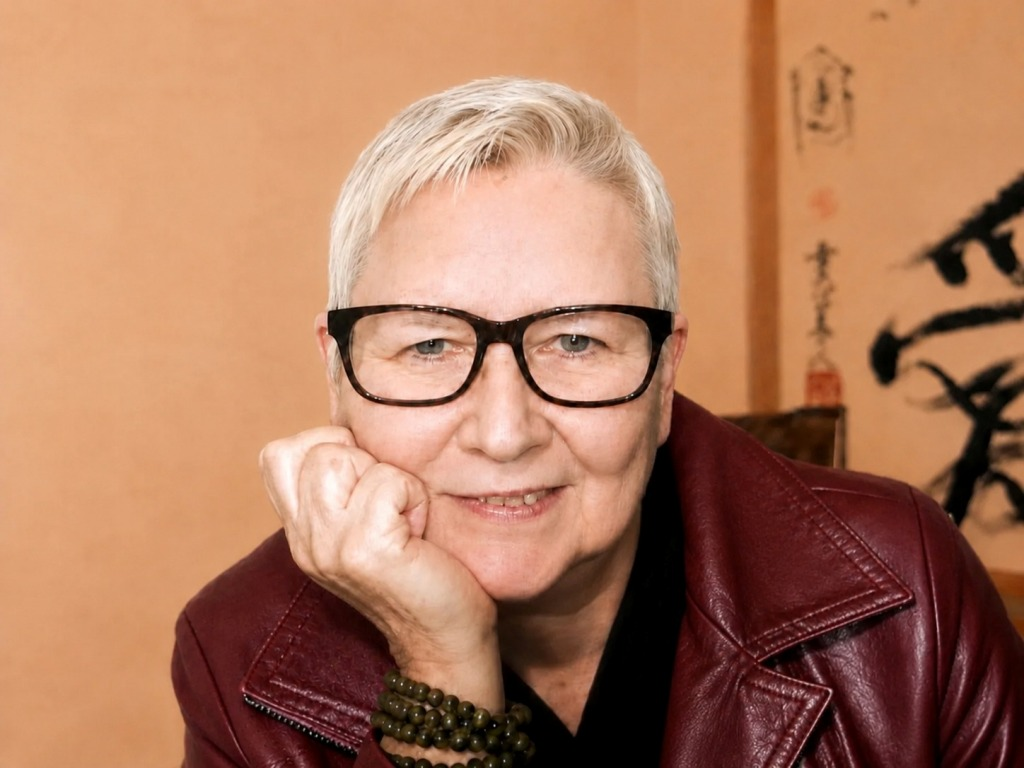
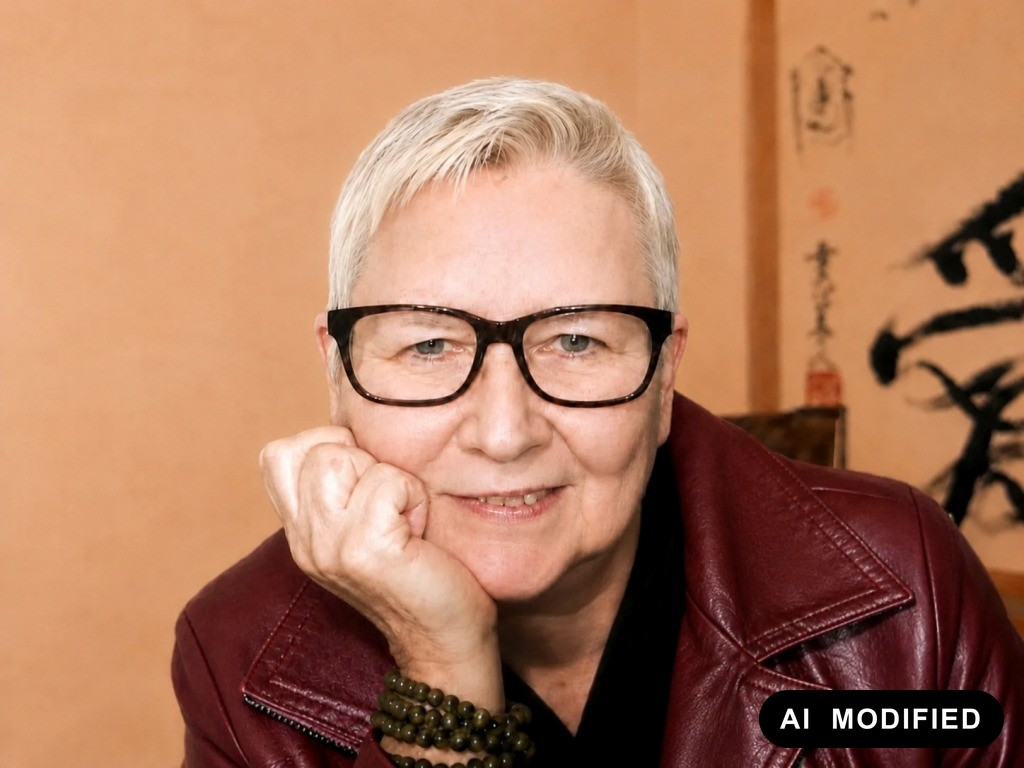
Add files via upload

Changed region(s): [[0.7188, 0.875, 1.0, 1.0]]

diff --git a/angebote.html b/angebote.html
@@ -125,7 +125,10 @@
 
   <section style="background:#fff; padding:100px 32px;">
     <div style="max-width:1160px; margin:0 auto; display:grid; grid-template-columns:repeat(auto-fit,minmax(340px,1fr)); gap:48px; align-items:center;">
-<img src="assets/Einzelcoaching%20mit%20kirsten%20ernst.jpg" alt="Einzelcoaching mit Kirsten Ernst – Coaching-Gespräch in vertrauensvoller Atmosphäre" loading="lazy" style="width:100%; height:380px;border-radius:20px; object-fit:cover; background:#EFE7DA;"/>
+<div style="position:relative;">
+        <img src="assets/Einzelcoaching%20mit%20kirsten%20ernst.jpg" alt="Einzelcoaching mit Kirsten Ernst – Coaching-Gespräch in vertrauensvoller Atmosphäre" loading="lazy" style="width:100%; height:380px; display:block; border-radius:20px; object-fit:cover; background:#EFE7DA;"/>
+        <div style="position:absolute; right:16px; bottom:16px; background:#000; color:#fff; font-family:'Montserrat',sans-serif; font-weight:700; font-size:11px; letter-spacing:0.04em; padding:6px 12px; border-radius:999px; white-space:nowrap;">AI GENERATED</div>
+      </div>
       <div>
         <div style="width:44px; height:44px; border-radius:12px; background:#E9F1F1; color:#DD7E2E; display:flex; align-items:center; justify-content:center; margin-bottom:20px;">
           <svg width="20" height="20" viewBox="0 0 24 24" fill="none" stroke="currentColor" stroke-width="2" stroke-linecap="round" stroke-linejoin="round"><path d="M20.8 4.6a5.5 5.5 0 0 0-7.8 0L12 5.6l-1-1a5.5 5.5 0 0 0-7.8 7.8l1 1L12 21.2l7.8-7.8 1-1a5.5 5.5 0 0 0 0-7.8z"/></svg>
@@ -166,7 +169,10 @@
   <section style="background:#fff; padding:100px 32px;">
     <div style="max-width:1160px; margin:0 auto; display:grid; grid-template-columns:repeat(auto-fit,minmax(340px,1fr)); gap:48px; align-items:center;">
 <figure style="margin:0;">
-        <img src="assets/Kirsten-Ernst-als%20speaker%20mit%20Ruediger-Dhalke.png" alt="Kirsten Ernst als Speakerin im Podiumsgespräch mit Rüdiger Dahlke" loading="lazy" style="width:100%; height:400px;border-radius:20px; object-fit:cover; background:#EFE7DA;"/>
+        <div style="position:relative;">
+          <img src="assets/Kirsten-Ernst-als%20speaker%20mit%20Ruediger-Dhalke.png" alt="Kirsten Ernst als Speakerin im Podiumsgespräch mit Rüdiger Dahlke" loading="lazy" style="width:100%; height:400px; display:block; border-radius:20px; object-fit:cover; background:#EFE7DA;"/>
+          <div style="position:absolute; right:16px; bottom:16px; background:#000; color:#fff; font-family:'Montserrat',sans-serif; font-weight:700; font-size:11px; letter-spacing:0.04em; padding:6px 12px; border-radius:999px; white-space:nowrap;">AI MODIFIED</div>
+        </div>
         <figcaption style="font-family:'Montserrat',sans-serif; font-size:13px; color:#8FA0AF; text-align:center; margin-top:12px;">Diskussion mit Rüdiger Dahlke und anderen</figcaption>
       </figure>
       <div>

diff --git a/kostenfreies-event.html b/kostenfreies-event.html
@@ -148,7 +148,10 @@
   </section>
 
   <section style="background:#fff; padding:100px 32px; text-align:center;">
-    <img src="assets/kirsten%20ernst%20coach%20fuer%20frauen%20Du%20moechtest%20tiefer%20gehen.png" alt="Kirsten Ernst – Coach für Frauen" loading="lazy" style="width:200px; height:200px; object-fit:cover; object-position:center 25%; border-radius:50%; display:block; margin:0 auto 30px; box-shadow:0 18px 40px rgba(36,52,74,0.16);"/>
+    <div style="position:relative; width:200px; margin:0 auto 30px;">
+      <img src="assets/kirsten%20ernst%20coach%20fuer%20frauen%20Du%20moechtest%20tiefer%20gehen.png" alt="Kirsten Ernst – Coach für Frauen" loading="lazy" style="width:200px; height:200px; object-fit:cover; object-position:center 25%; border-radius:50%; display:block; box-shadow:0 18px 40px rgba(36,52,74,0.16);"/>
+      <div style="position:absolute; left:50%; bottom:6px; transform:translateX(-50%); background:#000; color:#fff; font-family:'Montserrat',sans-serif; font-weight:700; font-size:9px; letter-spacing:0.03em; padding:4px 9px; border-radius:999px; white-space:nowrap;">AI MODIFIED</div>
+    </div>
     <h2 style="font-family:'Cormorant Garamond',serif; font-weight:800; font-size:28px; color:#6B2F7A; margin:0 0 14px;">Du möchtest tiefer gehen?</h2>
     <p style="font-size:16px; color:#5C6B7A; margin:0 0 30px;">Nach dem Event stehen dir zwei Wege offen, deinen Prozess weiterzugehen.</p>
     <div style="display:flex; gap:16px; justify-content:center; flex-wrap:wrap;">

diff --git a/ueber-mich.html b/ueber-mich.html
@@ -100,7 +100,10 @@
         <h1 style="font-family:'Cormorant Garamond',serif; font-weight:800; font-size:42px; line-height:1.2; color:#6B2F7A; margin:0 0 20px;">Vom Funktionieren zurück zu mir</h1>
         <p style="font-size:17px; line-height:1.75; color:#5C6B7A; margin:0; max-width:460px;">Seit fast 20 Jahren begleite ich Frauen auf ihrem Weg zu sich selbst. Was ich weitergebe, habe ich selbst gelebt – Schritt für Schritt, Wandlung für Wandlung.</p>
       </div>
-<img src="assets/Portraitfoto%20von%20Kirsten-Ernst.jpg" alt="Porträtfoto von Kirsten Ernst" loading="lazy" style="width:100%; height:460px; box-shadow:0 30px 60px rgba(36,52,74,0.16);border-radius:28px; object-fit:cover; background:#EFE7DA;"/>
+<div style="position:relative;">
+        <img src="assets/Portraitfoto%20von%20Kirsten-Ernst.jpg" alt="Porträtfoto von Kirsten Ernst" loading="lazy" style="width:100%; height:460px; display:block; box-shadow:0 30px 60px rgba(36,52,74,0.16);border-radius:28px; object-fit:cover; background:#EFE7DA;"/>
+        <div style="position:absolute; right:16px; bottom:16px; background:#000; color:#fff; font-family:'Montserrat',sans-serif; font-weight:700; font-size:11px; letter-spacing:0.04em; padding:6px 12px; border-radius:999px; white-space:nowrap;">AI MODIFIED</div>
+      </div>
     </div>
   </section>
 

diff --git a/index.html b/index.html
@@ -120,6 +120,7 @@
       <div style="position:relative;">
         <div style="position:absolute; inset:20px -20px -20px 20px; background:rgba(255,255,255,0.5); border-radius:28px;"></div>
 <img src="assets/Portraitfoto%20von%20Kirsten-Ernst.jpg" alt="Porträtfoto von Kirsten Ernst" loading="lazy" style="width:100%; height:420px; position:relative; box-shadow:0 30px 60px rgba(36,52,74,0.18);border-radius:28px; object-fit:cover; background:#EFE7DA;"/>
+        <div style="position:absolute; right:16px; bottom:16px; z-index:3; background:#000; color:#fff; font-family:'Montserrat',sans-serif; font-weight:700; font-size:11px; letter-spacing:0.04em; padding:6px 12px; border-radius:999px; white-space:nowrap;">AI MODIFIED</div>
       </div>
     </div>
   </section>
